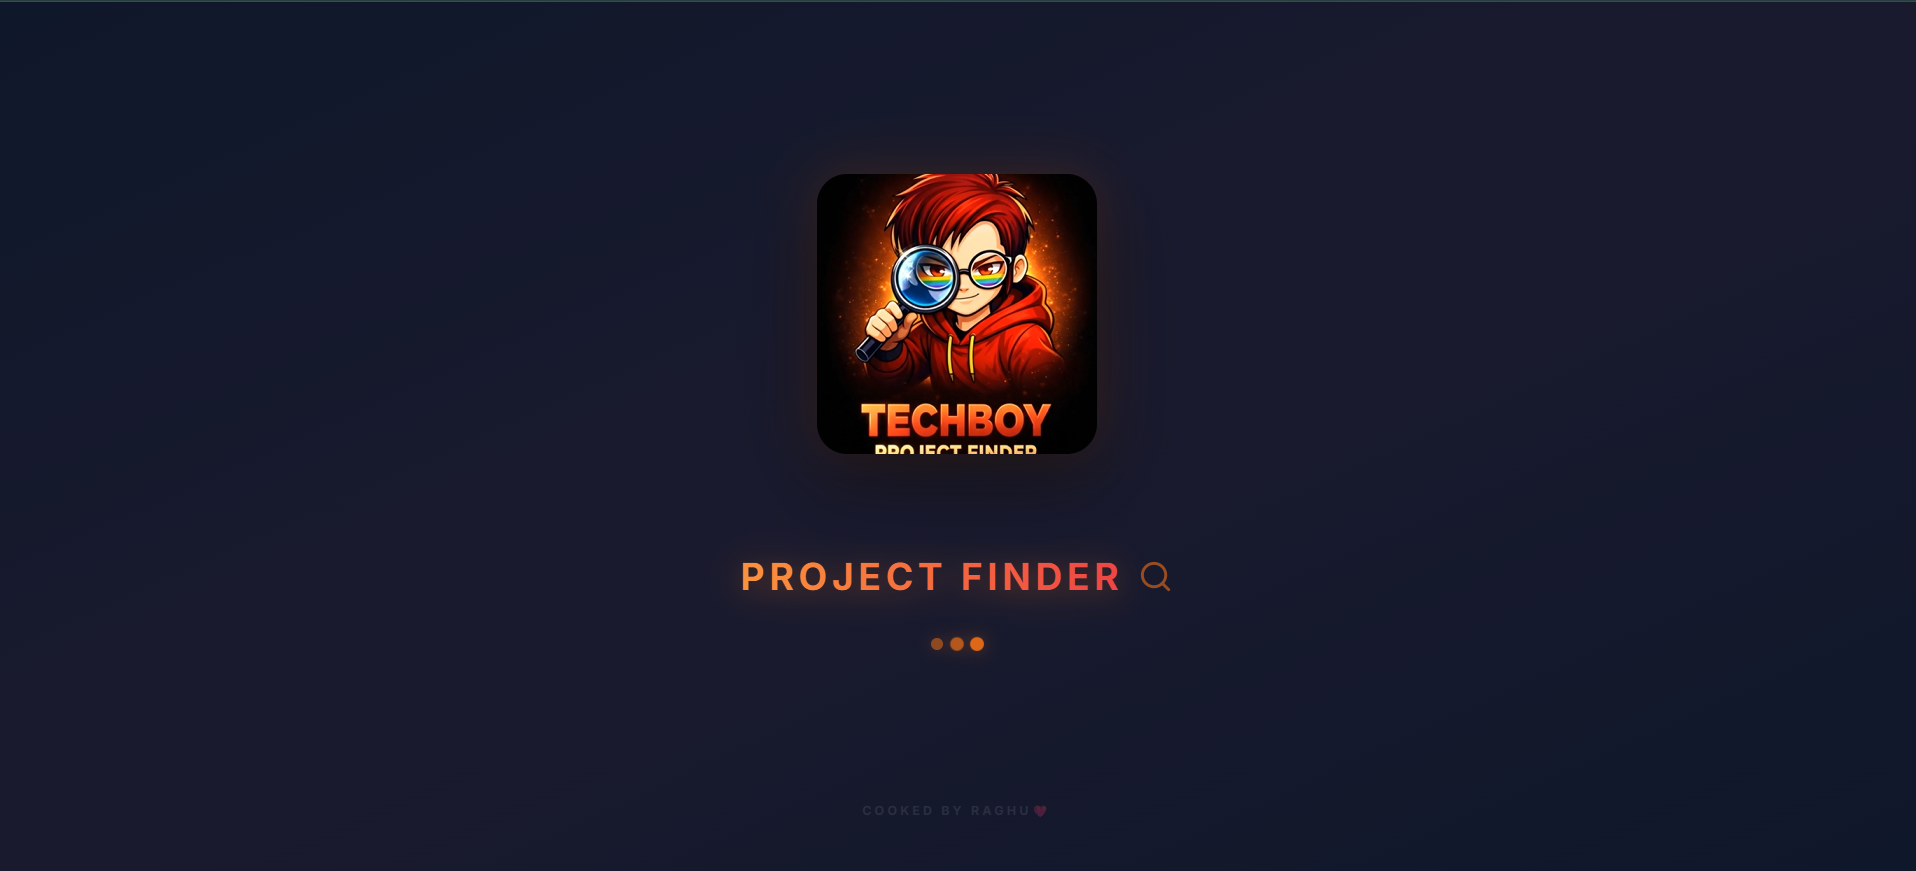
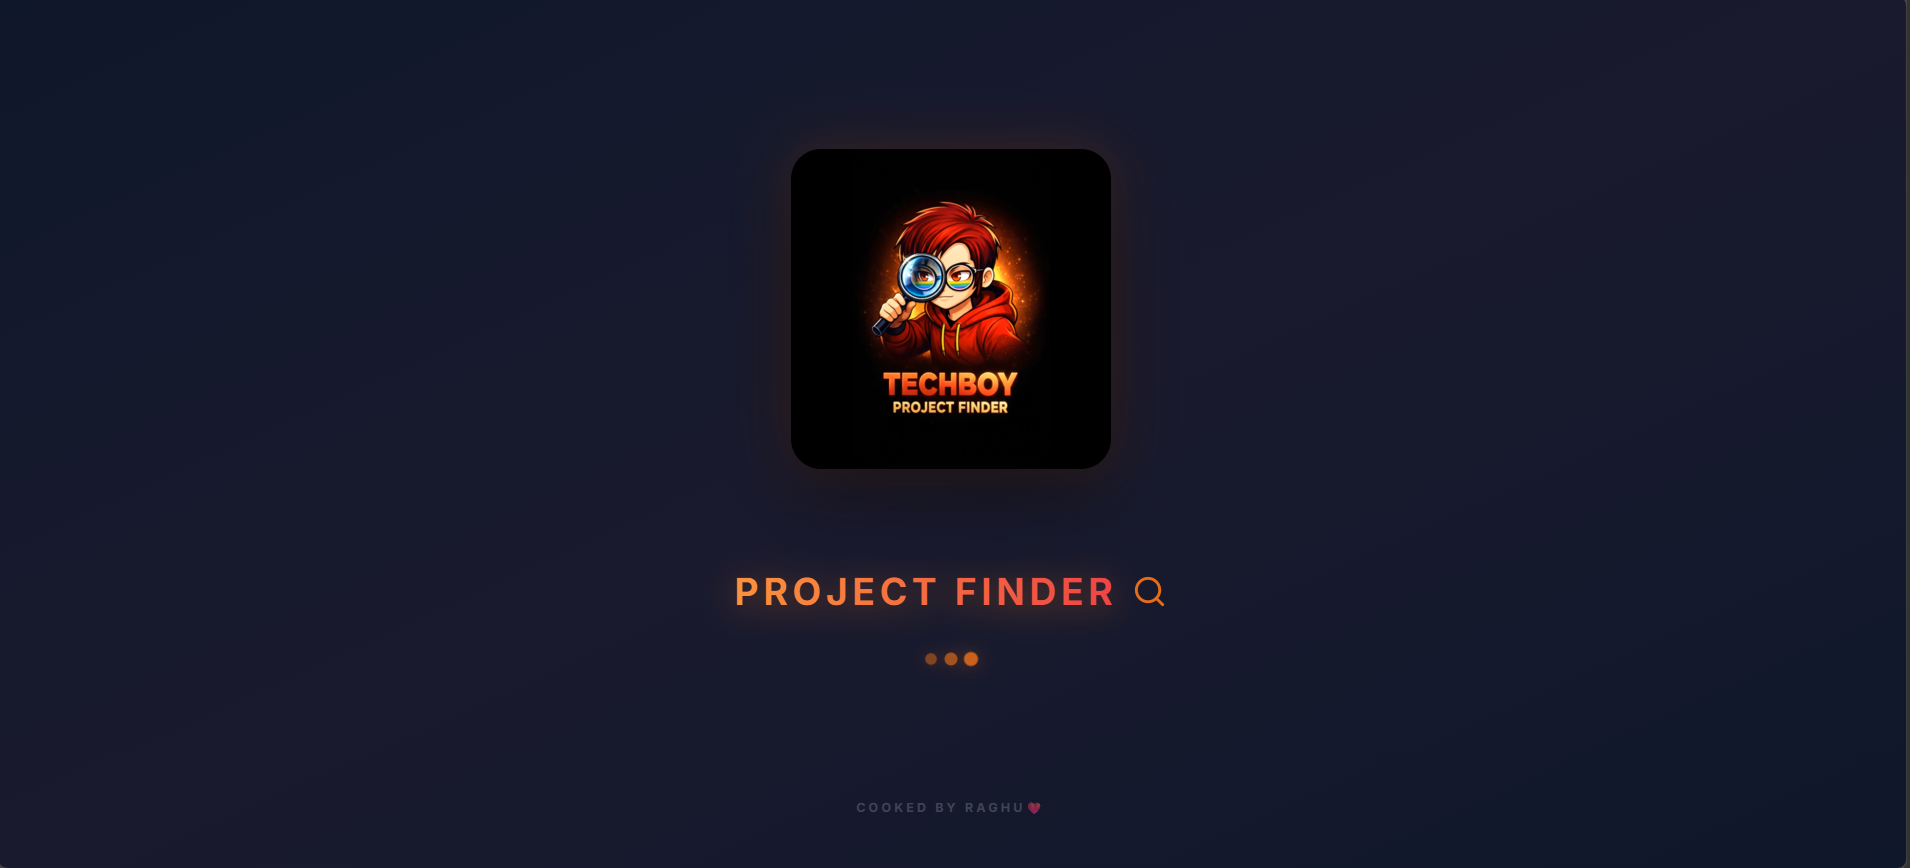
docs: update project screenshots and add mobile optimization preview

Changed region(s): [[0.4016, 0.1555, 0.5869, 0.5599], [0.9885, 0.0, 1.0, 1.0], [0.3707, 0.6221, 0.6178, 0.7776]]

diff --git a/README.md b/README.md
@@ -91,6 +91,10 @@ The Ultimate Research & Discovery Engine 🚀
 *Secure login and cloud synchronization for a personalized discovery experience.*
 <img src="./frontend/src/assets/images/screenshots/8.png" width="90%" style="border-radius: 20px; border: 1px solid rgba(255,255,255,0.1); margin-bottom: 40px;" />
 
+### 9. Mobile-First Optimization
+*High-density research experience optimized for all device form factors with zero compromise.*
+<img src="./frontend/src/assets/images/screenshots/9.png" width="90%" style="border-radius: 20px; border: 1px solid rgba(255,255,255,0.1); margin-bottom: 40px;" />
+
 </div>
 
 ---
